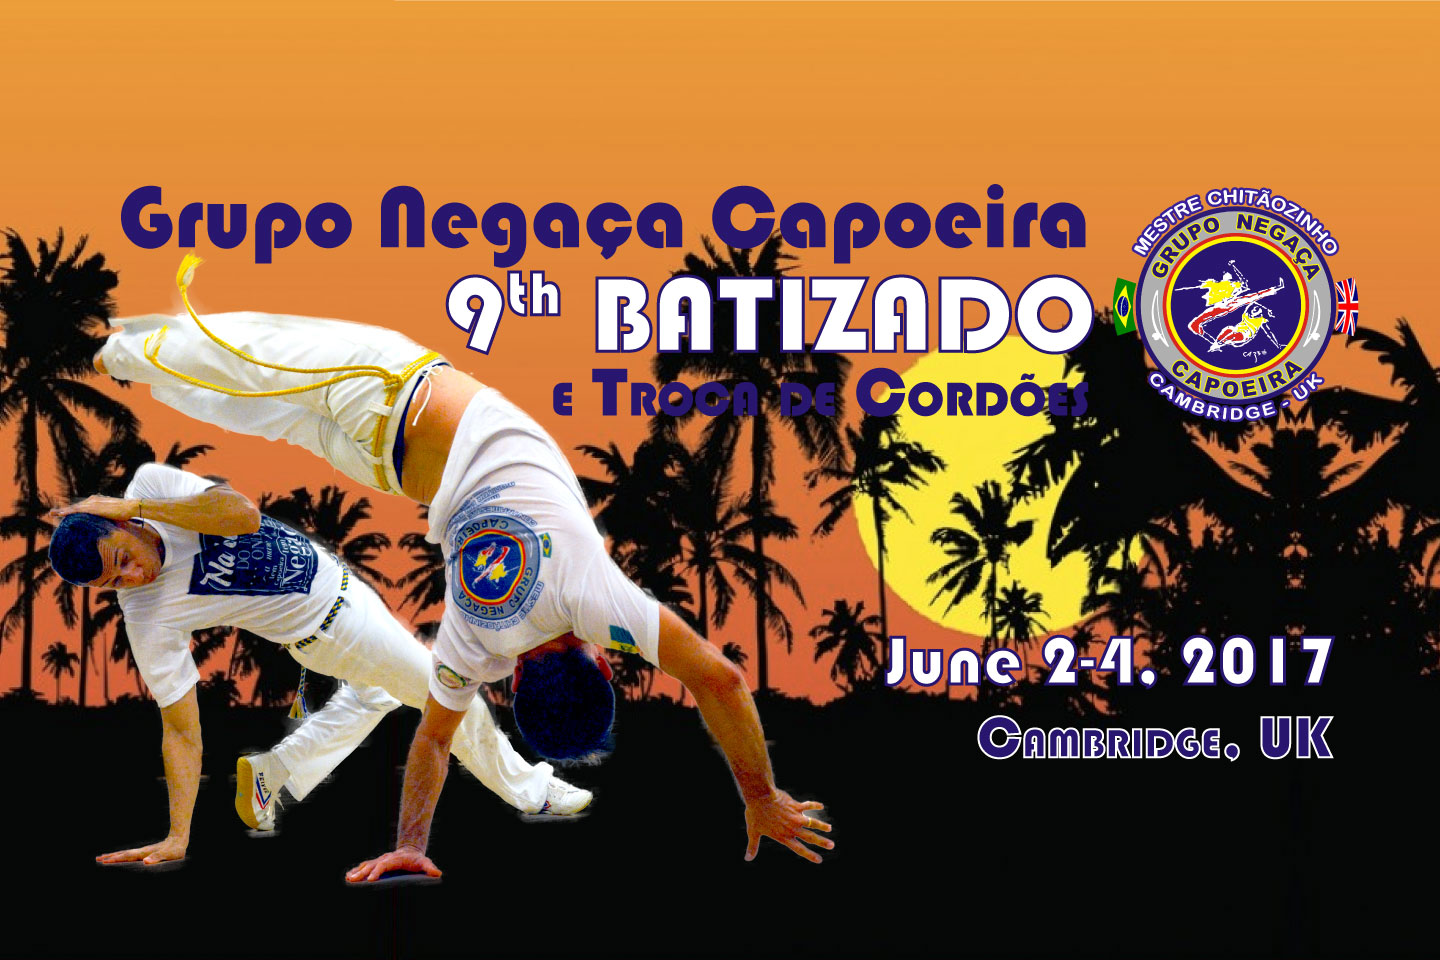
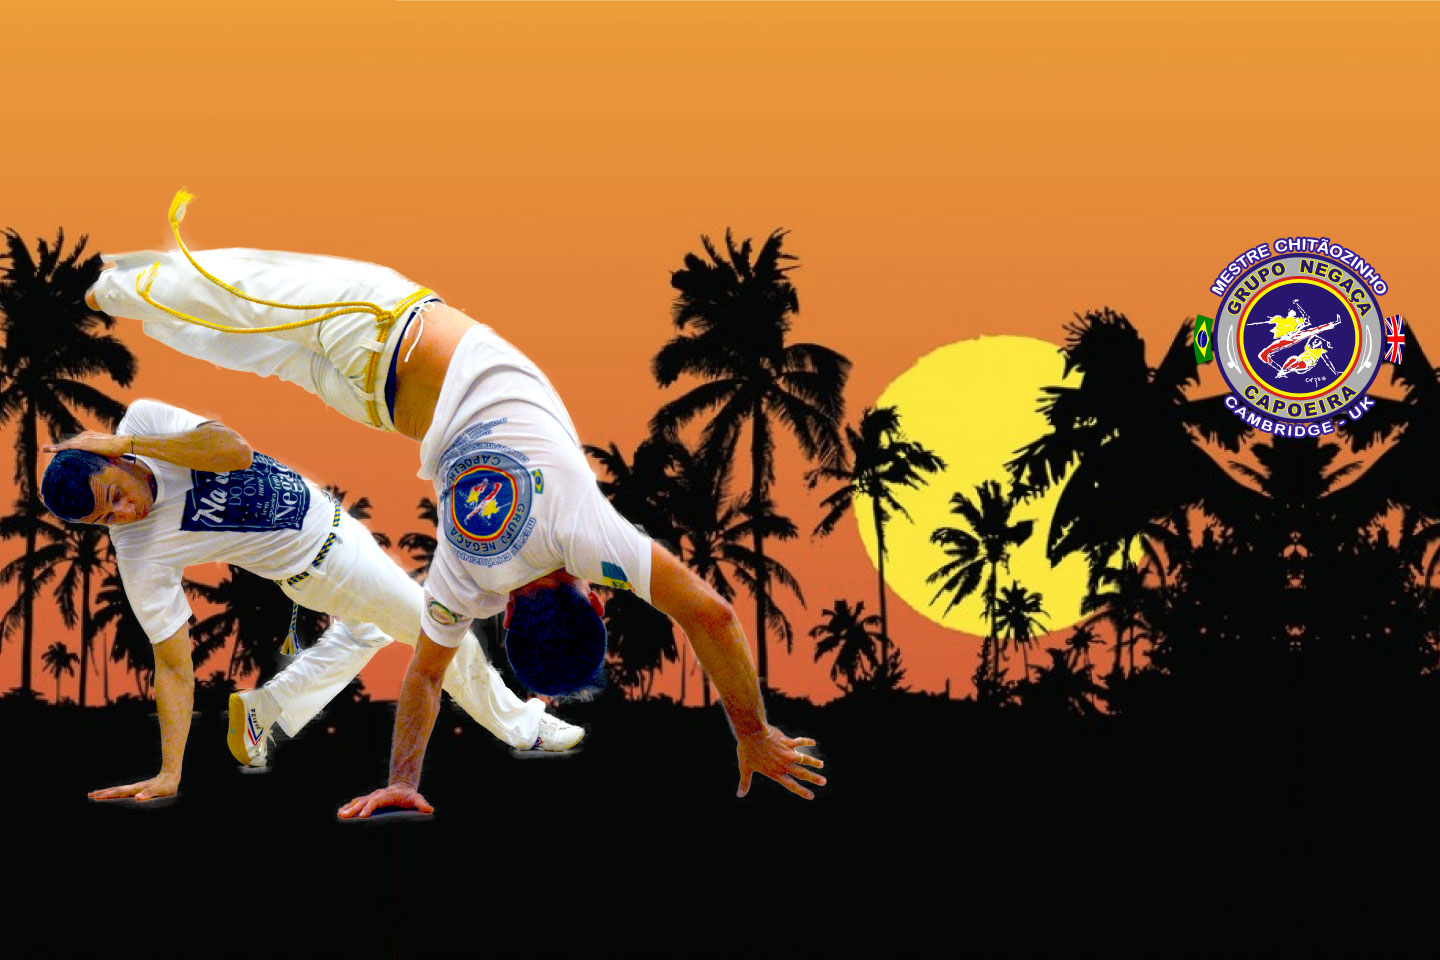
fixed batizado stuff

Changed region(s): [[0.0312, 0.1875, 1.0, 0.9375], [0.5938, 0.6562, 0.9375, 0.8125]]

diff --git a/user/themes/bootgrav-custom/css/custom.css b/user/themes/bootgrav-custom/css/custom.css
@@ -37,7 +37,6 @@ h2 {
   width: 100%;
 }*/
 
-
 /* GALLERY */
 .gallery
 {
@@ -66,6 +65,22 @@ h2 {
     font-style: normal;
 }
 
+.batizado {
+    font-family: 'bauhaus';
+    text-transform: capitalize;
+    font-size: 2em;
+    -webkit-text-stroke: 2px #28166F;
+    color: white;
+    text-shadow:
+        3px 3px 0 #28166F,
+        -1px -1px 0 #28166F,  
+        1px -1px 0 #28166F,
+        -1px  1px 0 #28166F,
+        1px  1px 0 #28166F;
+    -webkit-font-smoothing: antialiased;
+    text-align: right;
+}
+
 @media all and (max-width: 500px) { /* screen size until 500px */
     h1 {
         font-size: 1.8em;
@@ -80,9 +95,9 @@ h2 {
 
 /* vertical-centered text */
 .text-vcenter {
-  display: table-cell;
-  text-align: center;
-  vertical-align: middle;
+    display: table-cell;
+    text-align: center;
+    vertical-align: middle;
 }
 
 /* equal height row */

diff --git a/user/themes/antimatter/CHANGELOG.md b/user/themes/antimatter/CHANGELOG.md
@@ -1,3 +1,9 @@
+# v2.1.1
+## 02/26/2017
+
+1. [](#bugfix)
+    * Allow to add a `external` class to site.yaml links to work on modular pages [#95](https://github.com/getgrav/grav-theme-antimatter/pull/95)
+
 # v2.1.0
 ## 01/24/2017
 
@@ -96,7 +102,7 @@
 1. [](#new)
     * Blueprints that work with new admin plugin!
 1. [](#bugfix)
-    * Favicon with full image URL   
+    * Favicon with full image URL
 
 # v1.6.1
 ## 07/24/2015

diff --git a/user/pages/02.batizado2017/_jumbo_batizado/jumbo2.md b/user/pages/02.batizado2017/_jumbo_batizado/jumbo2.md
@@ -2,3 +2,13 @@
 title: jumbo_batizado
 menu: jumbo_batizado
 ---
+
+Grupo negaça capoeira
+
+9<sup>th</sup> BATIZADO
+
+e troca de cordões 
+
+June 2-4, 2017
+
+Cambridge UK
